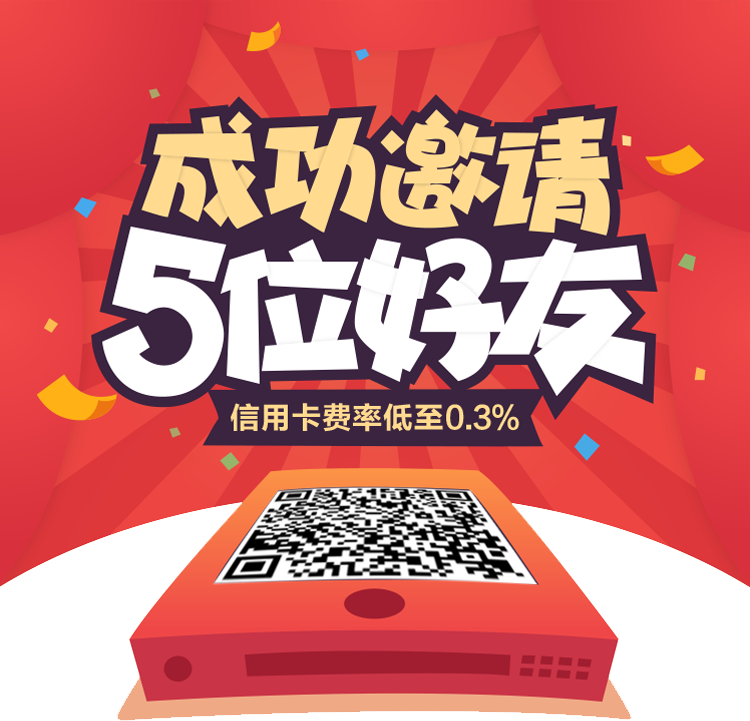
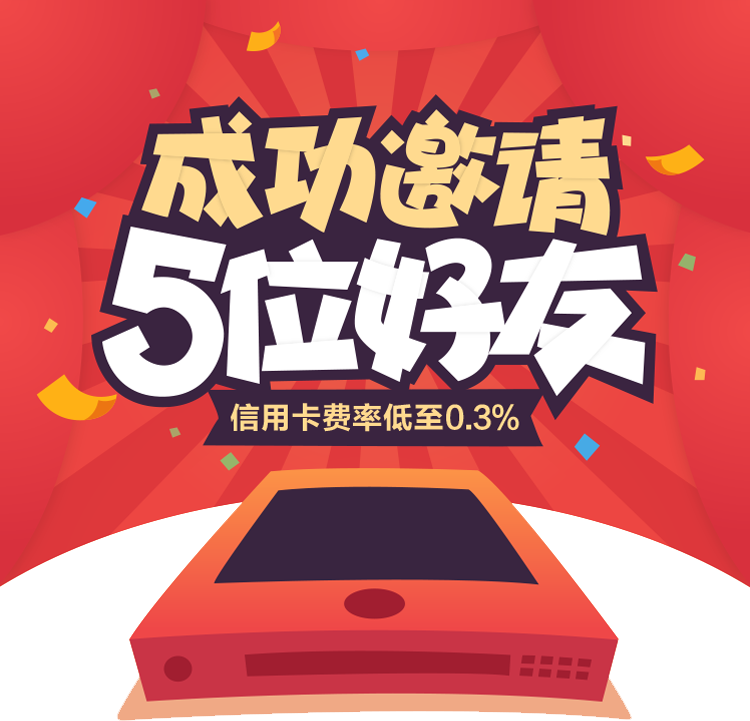
推广

Changed region(s): [[0.276, 0.6713, 0.736, 0.8239]]

diff --git a/web/src/main/webapp/friends/inviteFriends.html b/web/src/main/webapp/friends/inviteFriends.html
@@ -15,6 +15,7 @@
 </head>
 <body class="ratebg" th:name="${user.id}">
 <div class="rate">
+    <div class="yqm"><div class="yqm_sub">邀请码:33333r3</div></div>
     <p><img src="images/banner-tg.png" th:src="@{/friends/images/banner-tg.png}"/></p>
     <h1>当前消费费率<span
             th:text="${#numbers.formatDecimal(@systemService.systemBookRate(user).movePointRight(2),1,'COMMA',2,'POINT')}">

diff --git a/web/src/main/webapp/friends/styles/friends.css b/web/src/main/webapp/friends/styles/friends.css
@@ -16,7 +16,7 @@ ul, li {
     background: #ffddaa;
 }
 
-.rate {
+.rate { position: relative;
 
 }
 
@@ -242,3 +242,5 @@ ul, li {
 .shareimg .mt15 {
     margin-right: 15px
 }
+.yqm{ width: 106px; text-align:center !important;margin: 0 auto}
+.yqm_sub{ color: #ffda8f; position: absolute; top:55%  }
